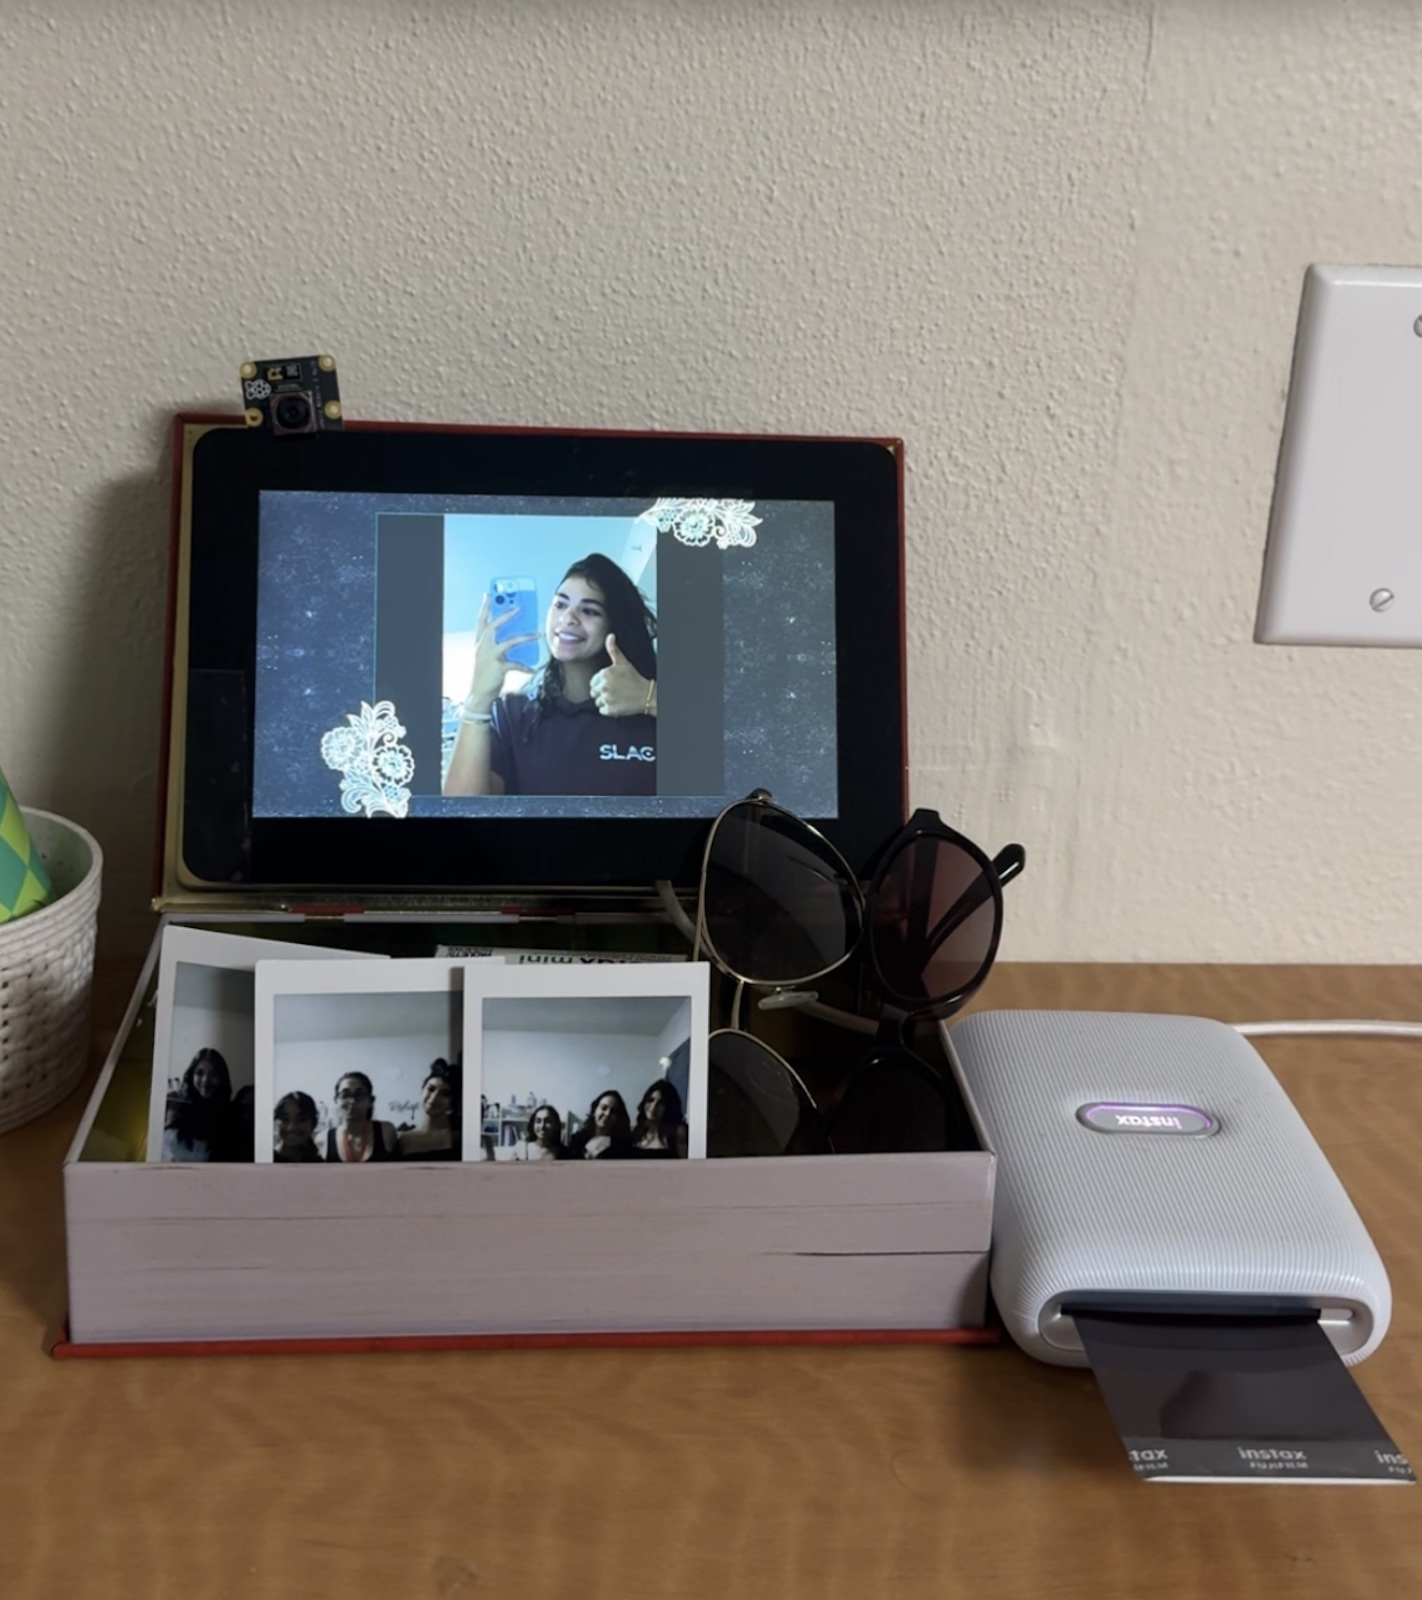
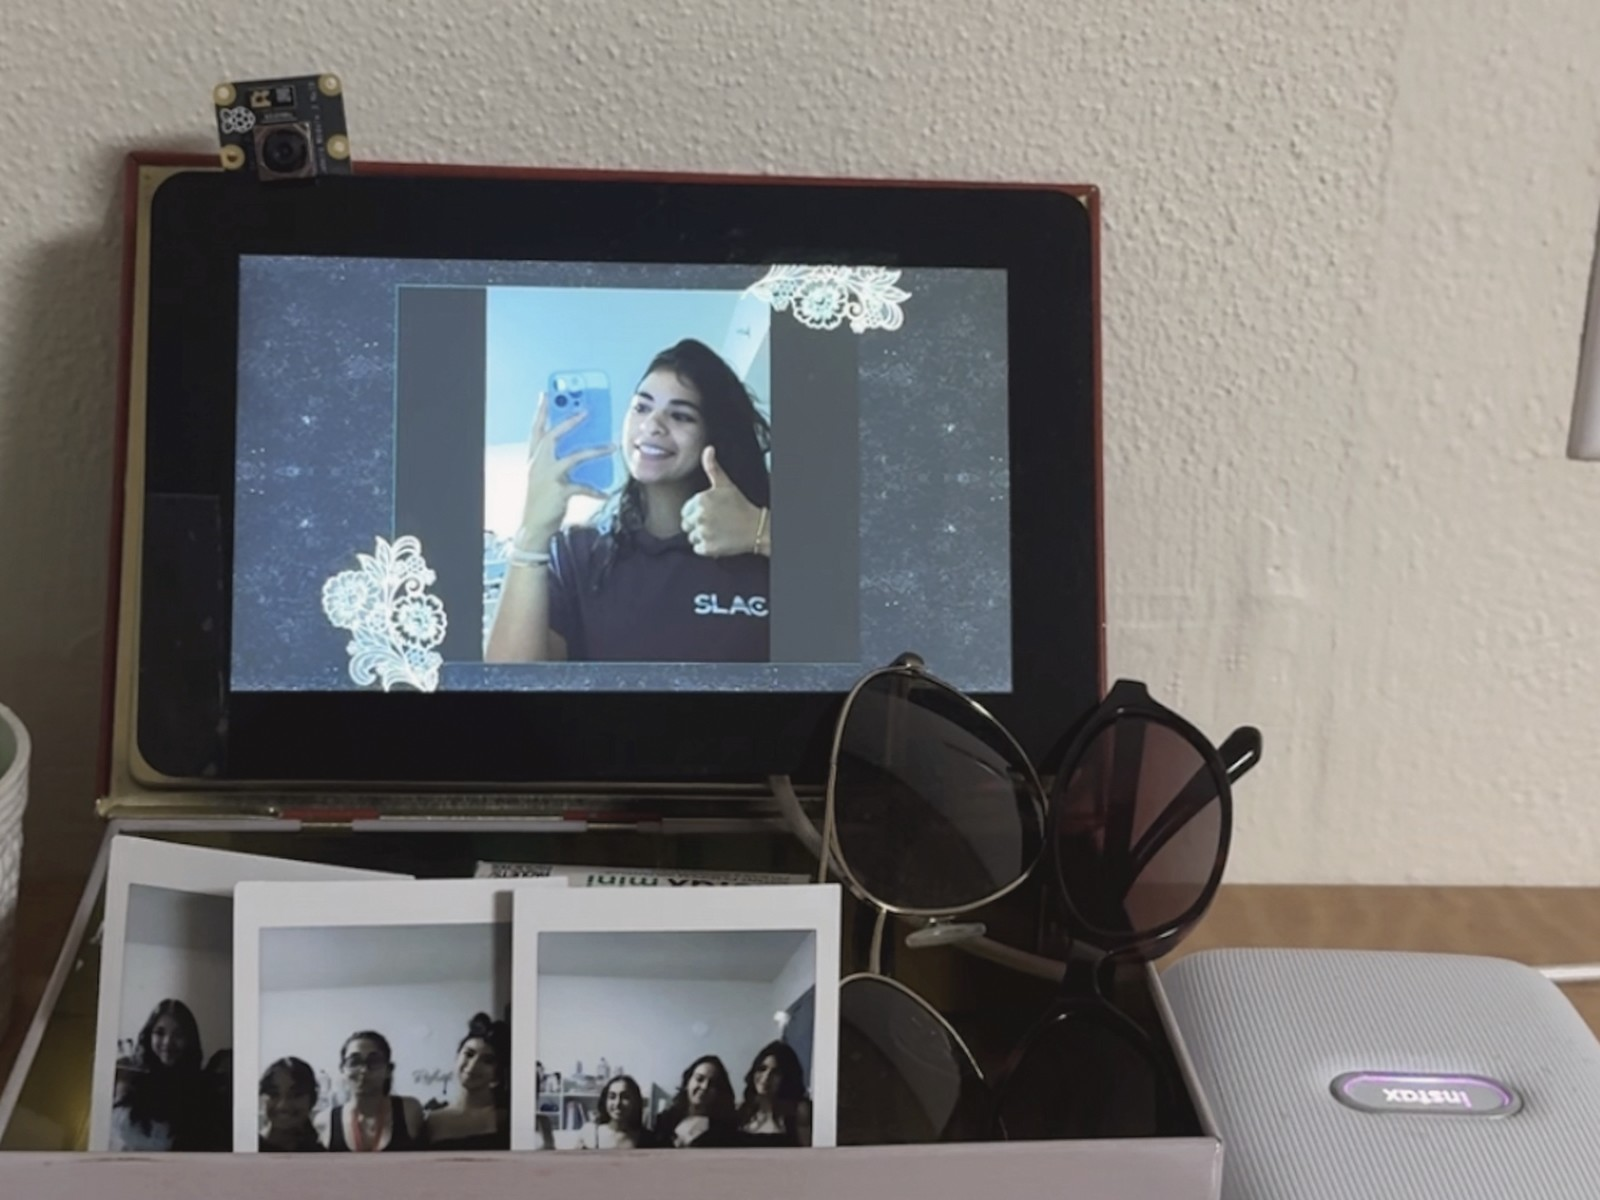
Polish Photo Booth action gallery

diff --git a/src/data.ts b/src/data.ts
@@ -31,7 +31,6 @@ export const PROJECTS: Project[] = [
       '/shots/photobooth-schematic.png',
       '/shots/photobooth-action.jpg',
       '/shots/photobooth-party.jpg',
-      '/shots/photobooth-wide.jpg',
       '/shots/photobooth-live.jpg',
       '/shots/photobooth-hardware.jpg',
     ],
